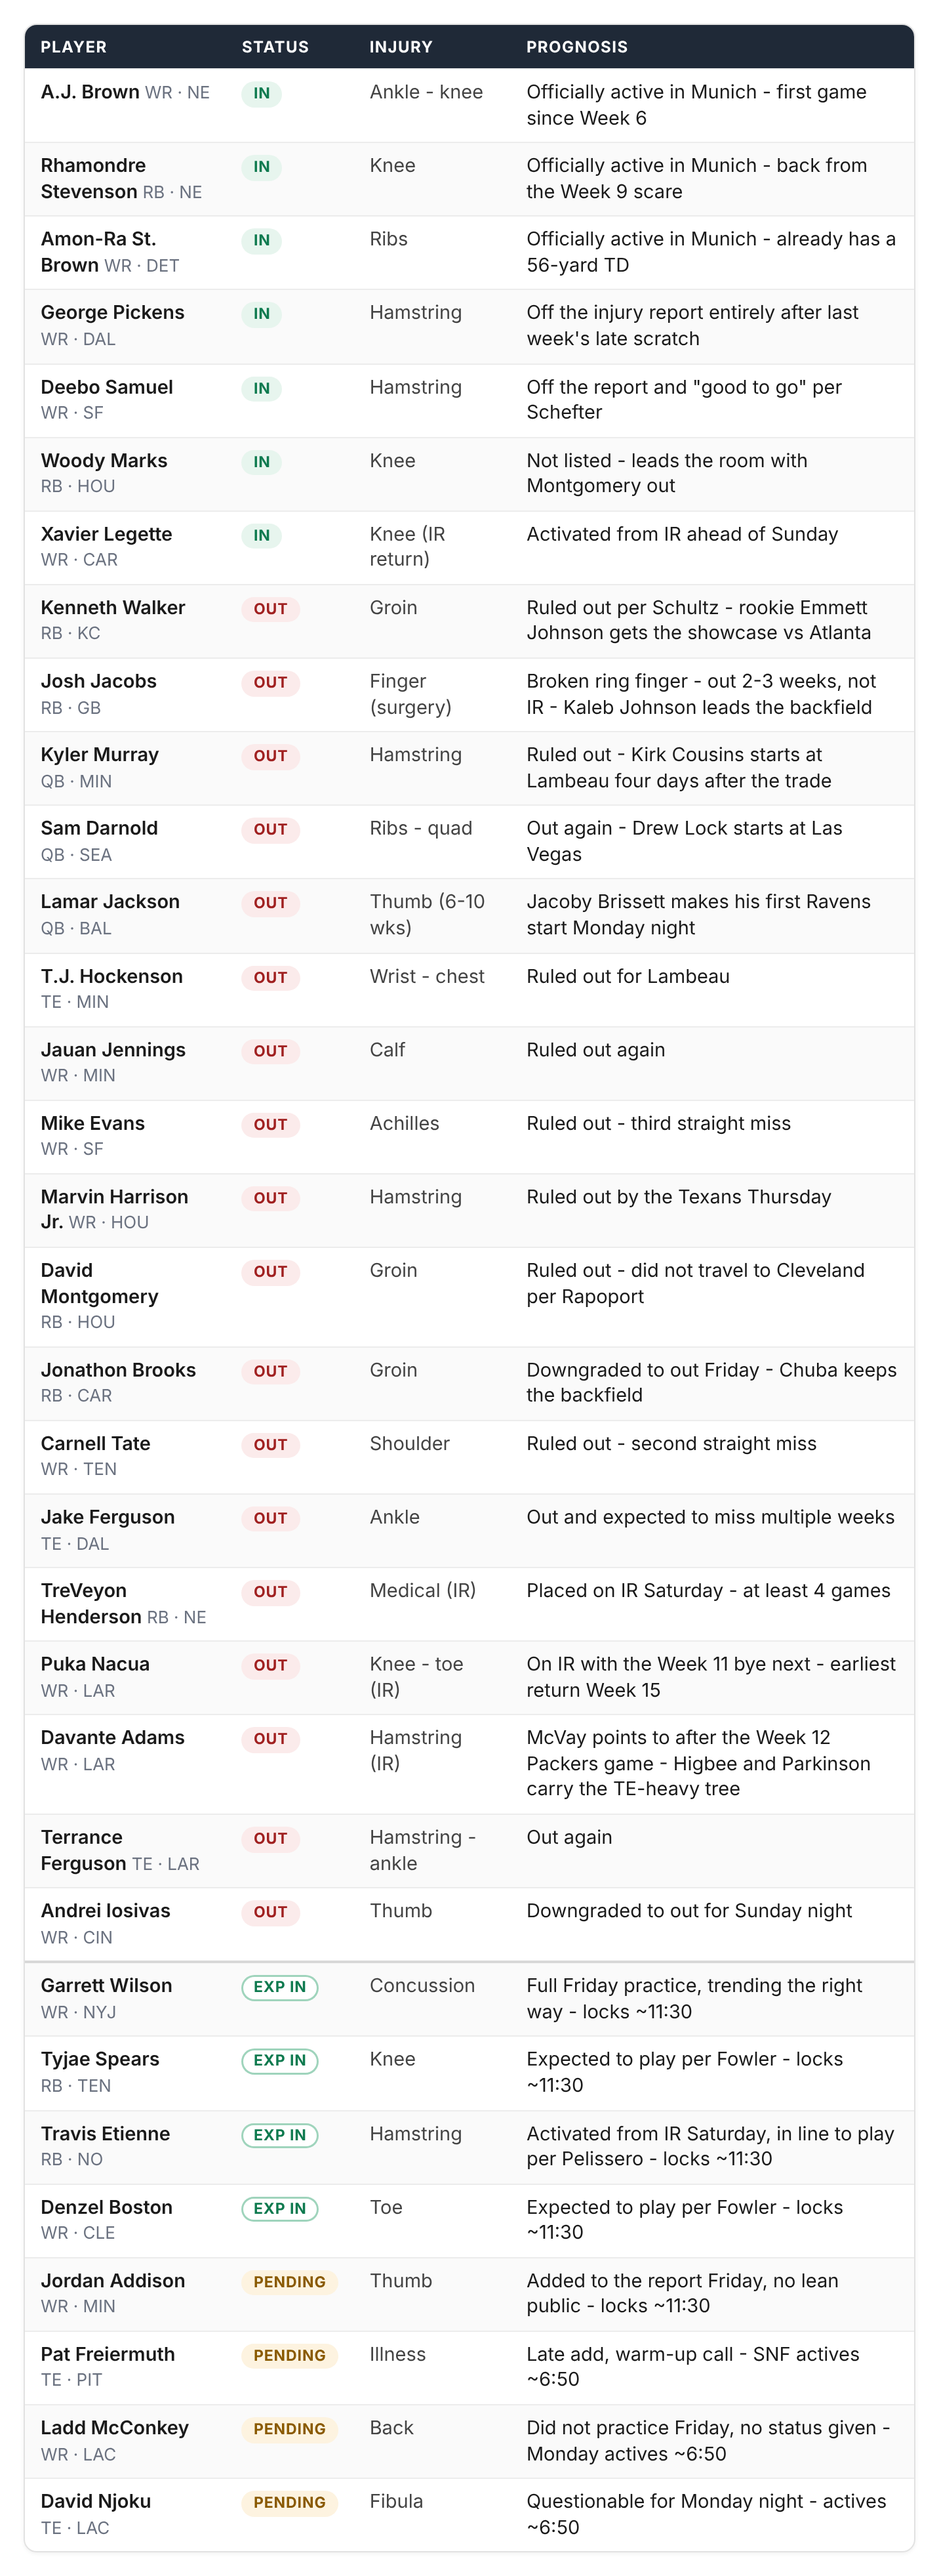
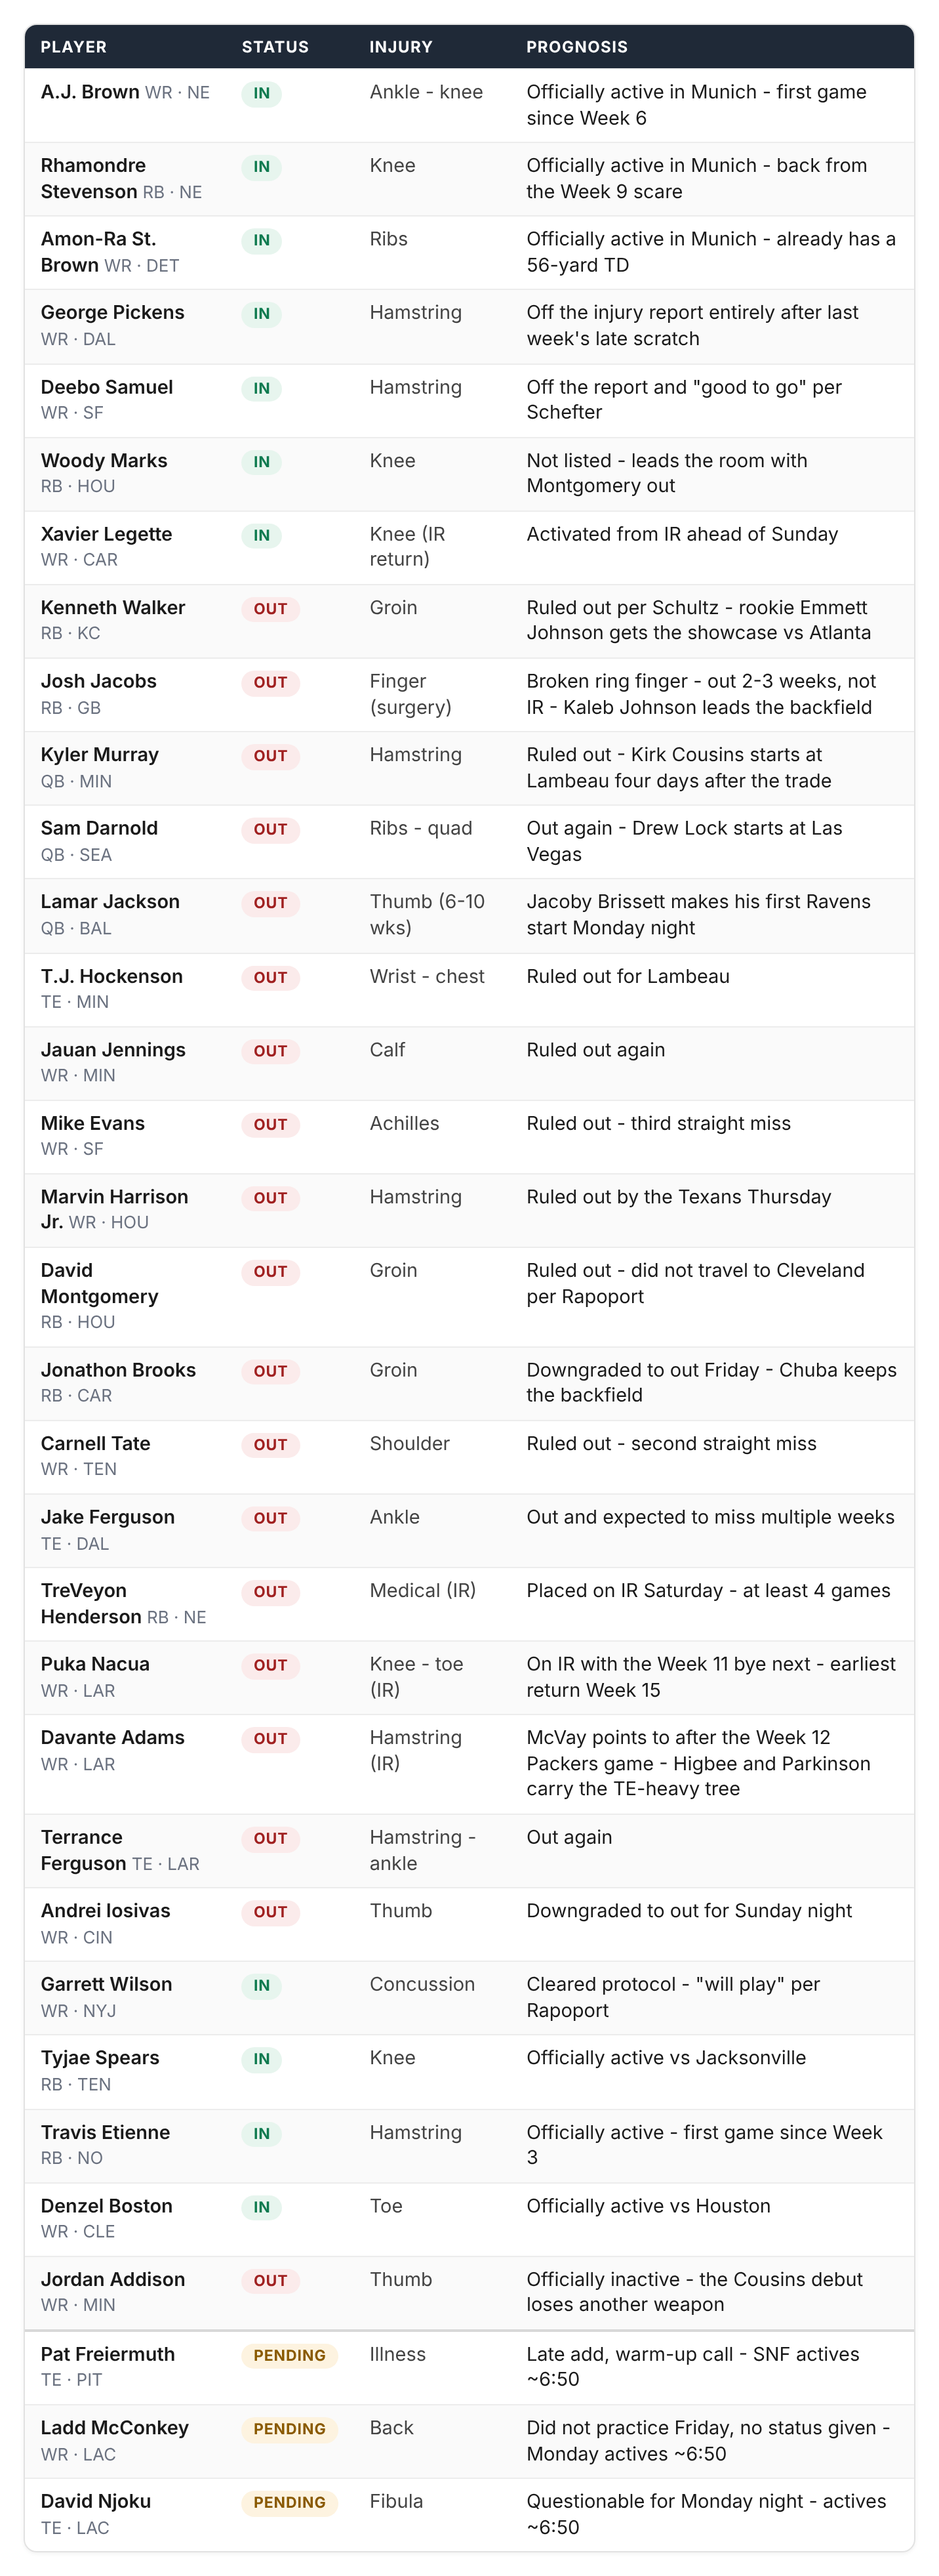
Week 10 FINAL wire — Addison inactive; GW/Spears/Etienne/Boston locked in [skip ci]
Claude-Session: https://claude.ai/code/session_01LD24FbXSMtPMcXZkoCgqbd

diff --git a/data/sunday/injury-wire.md b/data/sunday/injury-wire.md
@@ -11,7 +11,7 @@
 #   - Locked rows first, not-locked rows last (renderer draws the divider).
 #   - Pipes (|) can't appear inside cell text.
 #
-# WEEK 10 — 2026-11-15 — EXPECTED wire (byes: CHI, DEN, PHI, TB; WAS-NYG played Thu; NE-DET in Munich kicked 9:30 ET)
+# WEEK 10 — 2026-11-15 — FINAL wire, 12:00 ET (1:00 slate official) (byes: CHI, DEN, PHI, TB; WAS-NYG played Thu; NE-DET in Munich kicked 9:30 ET)
 
 | Player | Pos/Team | Status | Injury | Prognosis |
 |---|---|---|---|---|
@@ -40,11 +40,11 @@
 | Davante Adams | WR · LAR | OUT | Hamstring (IR) | McVay points to after the Week 12 Packers game - Higbee and Parkinson carry the TE-heavy tree |
 | Terrance Ferguson | TE · LAR | OUT | Hamstring - ankle | Out again |
 | Andrei Iosivas | WR · CIN | OUT | Thumb | Downgraded to out for Sunday night |
-| Garrett Wilson | WR · NYJ | EXP IN | Concussion | Full Friday practice, trending the right way - locks ~11:30 |
-| Tyjae Spears | RB · TEN | EXP IN | Knee | Expected to play per Fowler - locks ~11:30 |
-| Travis Etienne | RB · NO | EXP IN | Hamstring | Activated from IR Saturday, in line to play per Pelissero - locks ~11:30 |
-| Denzel Boston | WR · CLE | EXP IN | Toe | Expected to play per Fowler - locks ~11:30 |
-| Jordan Addison | WR · MIN | PENDING | Thumb | Added to the report Friday, no lean public - locks ~11:30 |
+| Garrett Wilson | WR · NYJ | IN | Concussion | Cleared protocol - "will play" per Rapoport |
+| Tyjae Spears | RB · TEN | IN | Knee | Officially active vs Jacksonville |
+| Travis Etienne | RB · NO | IN | Hamstring | Officially active - first game since Week 3 |
+| Denzel Boston | WR · CLE | IN | Toe | Officially active vs Houston |
+| Jordan Addison | WR · MIN | OUT | Thumb | Officially inactive - the Cousins debut loses another weapon |
 | Pat Freiermuth | TE · PIT | PENDING | Illness | Late add, warm-up call - SNF actives ~6:50 |
 | Ladd McConkey | WR · LAC | PENDING | Back | Did not practice Friday, no status given - Monday actives ~6:50 |
 | David Njoku | TE · LAC | PENDING | Fibula | Questionable for Monday night - actives ~6:50 |
